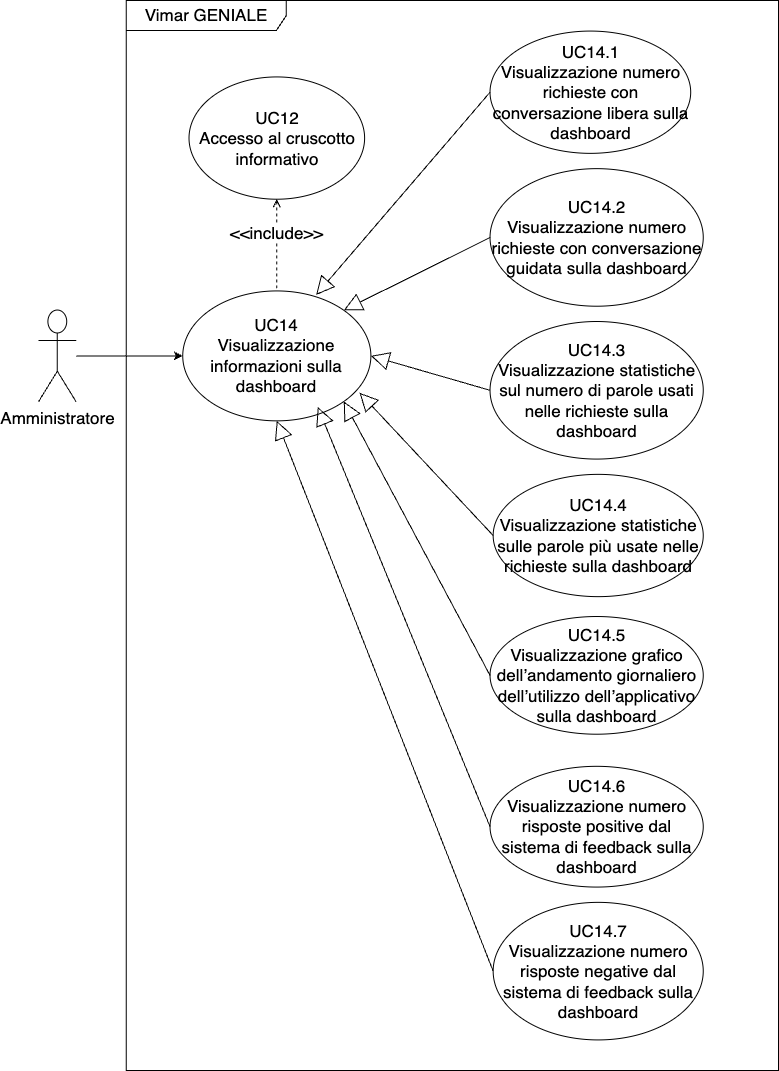
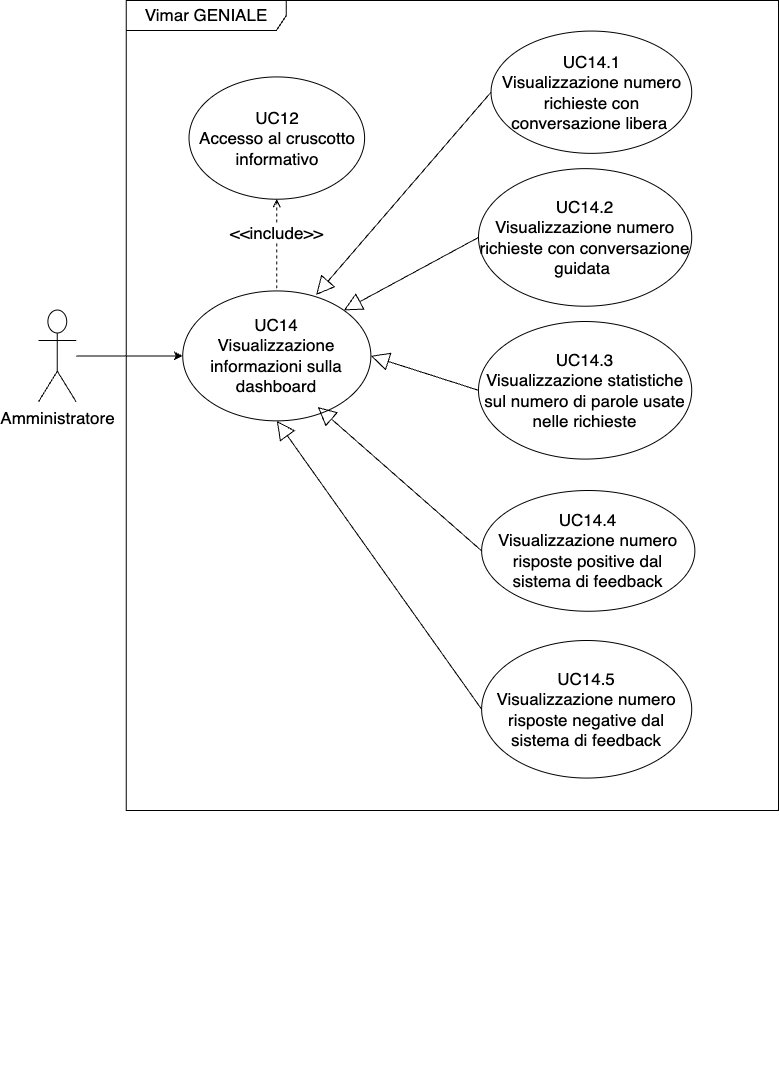
V0.0.11
Aggiunti UC16, 17, corretto UC14, UC15
Aggiunti requisiti, corretta numerazione requisiti

diff --git a/src/2 - RTB/Analisi_dei_Requisiti/contents/casi_duso/elenco.tex b/src/2 - RTB/Analisi_dei_Requisiti/contents/casi_duso/elenco.tex
@@ -434,7 +434,7 @@
     \item \textbf{Inclusioni}: UC 12 - Accesso al cruscotto informativo
 \end{itemize}
 
-\subuc{Visualizzazione numero richieste con conversazione libera sulla dashboard}{visualizzazione_richieste_libere}
+\subuc{Visualizzazione numero richieste con conversazione libera}{visualizzazione_richieste_libere}
 \begin{itemize}
     \item \textbf{Attori coinvolti}: Amministratore;
     \item \textbf{Descrizione}: Un amministratore desidera visualizzare dal cruscotto informativo il numero delle richieste effettuate con una conversazione libera;
@@ -456,7 +456,7 @@
     \item \textbf{Generalizzazioni}: UC 14 - Visualizzazione informazioni sulla dashboard
 \end{itemize}
 
-\subuc{Visualizzazione numero richieste con conversazione guidata sulla dashboard}{visualizzazione_richieste_guidate}
+\subuc{Visualizzazione numero richieste con conversazione guidata}{visualizzazione_richieste_guidate}
 \begin{itemize}
     \item \textbf{Attori coinvolti}: Amministratore;
     \item \textbf{Descrizione}: Un amministratore desidera visualizzare dal cruscotto informativo il numero delle richieste effettuate con una conversazione guidata;
@@ -478,7 +478,7 @@
     \item \textbf{Generalizzazioni}: UC 14 - Visualizzazione informazioni sulla dashboard
 \end{itemize}
 
-\subuc{Visualizzazione statistiche sul numero di parole usati nelle richieste sulla dashboard}{visualizzazione_statistiche_parole}
+\subuc{Visualizzazione statistiche sul numero di parole usate nelle richieste}{visualizzazione_statistiche_parole}
 \begin{itemize}
     \item \textbf{Attori coinvolti}: Amministratore;
     \item \textbf{Descrizione}: Un amministratore desidera visualizzare dal cruscotto informativo le statistiche sul numero di parole utilizzate;
@@ -500,51 +500,7 @@
     \item \textbf{Generalizzazioni}: UC 14 - Visualizzazione informazioni sulla dashboard
 \end{itemize}
 
-\subuc{Visualizzazione statistiche sulle parole più usate nelle richieste sulla dashboard}{visualizzazione_statistiche_parole_usate}
-\begin{itemize}
-    \item \textbf{Attori coinvolti}: Amministratore;
-    \item \textbf{Descrizione}: Un amministratore desidera visualizzare dal cruscotto informativo le statistiche sulle parole più usate nelle richieste;
-    \item \textbf{Precondizioni}: 
-        \begin{itemize}
-            \item L’amministratore ha accesso all’interfaccia web del sistema;
-            \item L’amministratore è dotato dell’accesso alla dashboard;
-        \end{itemize}
-    \item \textbf{Postcondizioni}: Il sistema raccoglie le informazioni relative alle statistiche sulle parole più usate nelle richieste e le mostra nella dashboard;
-    \item \textbf{Scenario principale}:
-    \begin{enumerate}
-    \item L’amministratore accede all’interfaccia web di Vimar GENIALE;
-    \item Inserisce le proprie credenziali;
-    \item Il sistema riceve la richiesta di accesso e verifica le credenziali;
-    \item L’amministratore ottiene l’accesso alla dashboard;
-    \item Il sistema mostra le informazioni richieste sul cruscotto informativo.
-    \end{enumerate}
-    \item \textbf{Inclusioni}: UC 12 - Accesso al cruscotto informativo
-    \item \textbf{Generalizzazioni}: UC 14 - Visualizzazione informazioni sulla dashboard
-\end{itemize}
-
-\subuc{Visualizzazione grafico dell’andamento giornaliero dell’utilizzo dell’applicativo sulla dashboard}{visualizzazione_grafico_andamento}
-\begin{itemize}
-    \item \textbf{Attori coinvolti}: Amministratore;
-    \item \textbf{Descrizione}: Un amministratore desidera visualizzare dal cruscotto informativo il grafico dell’andamento giornaliero dell’utilizzo dell’applicativo;
-    \item \textbf{Precondizioni}: 
-        \begin{itemize}
-            \item L’amministratore ha accesso all’interfaccia web del sistema;
-            \item L’amministratore è dotato dell’accesso alla dashboard;
-        \end{itemize}
-    \item \textbf{Postcondizioni}: Il sistema raccoglie le informazioni, crea il grafico dell’andamento giornaliero dell’utilizzo dell’applicativo e lo mostra nella dashboard;
-    \item \textbf{Scenario principale}:
-    \begin{enumerate}
-    \item L’amministratore accede all’interfaccia web di Vimar GENIALE;
-    \item Inserisce le proprie credenziali;
-    \item Il sistema riceve la richiesta di accesso e verifica le credenziali;
-    \item L’amministratore ottiene l’accesso alla dashboard;
-    \item Il sistema mostra le informazioni richieste sul cruscotto informativo.
-    \end{enumerate}
-    \item \textbf{Inclusioni}: UC 12 - Accesso al cruscotto informativo
-    \item \textbf{Generalizzazioni}: UC 14 - Visualizzazione informazioni sulla dashboard
-\end{itemize}
-
-\subuc{Visualizzazione numero risposte positive dal sistema di feedback sulla dashboard}{visualizzazione_risposte_positive}
+\subuc{Visualizzazione numero risposte positive dal sistema di feedback}{visualizzazione_risposte_positive}
 \begin{itemize}
     \item \textbf{Attori coinvolti}: Amministratore;
     \item \textbf{Descrizione}: Un amministratore desidera visualizzare dal cruscotto informativo il numero delle risposte positive dal sistema di feedback;
@@ -566,7 +522,7 @@
     \item \textbf{Generalizzazioni}: UC 14 - Visualizzazione informazioni sulla dashboard
 \end{itemize}
 
-\subuc{Visualizzazione numero risposte negative dal sistema di feedback sulla dashboard}{visualizzazione_risposte_negative}
+\subuc{Visualizzazione numero risposte negative dal sistema di feedback}{visualizzazione_risposte_negative}
 \begin{itemize}
     \item \textbf{Attori coinvolti}: Amministratore;
     \item \textbf{Descrizione}: Un amministratore desidera visualizzare dal cruscotto informativo il numero delle risposte negative dal sistema di feedback;
@@ -619,5 +575,61 @@
 \centering
 \includegraphics[width=0.8\textwidth]{contents/casi_duso/png/UC15.png}
 \caption{UC15 - Richiesta di argomento proibito}
+% \label{fig:UC1a}
+\end{figure}
+
+\uc{Domanda al sisitema}{domanda}
+\begin{itemize}
+    \item \textbf{Attori coinvolti}: Installatore;
+    \item \textbf{Descrizione}: L’installatore inserisce una domanda;
+    \item \textbf{Precondizioni}: 
+        \begin{itemize}
+            \item L’installatore ha accesso all’interfaccia web del sistema;
+            \item L’installatore ha accesso ad una conversazione memorizzabile nel sistema;
+            \item L'installatore ha inviato una domanda al sistema;
+            \item La domanda posta non riguarda argomenti proibiti.
+        \end{itemize}
+    \item \textbf{Postcondizioni}: Il sistema restituisce una risposta;
+    \item \textbf{Scenario principale}:
+    \begin{enumerate}
+    \item L’installatore accede all’interfaccia web di Vimar GENIALE;
+    \item Inserisce una domanda che ha a che vedere con prodotti VIMAR e non con argomenti proibiti o sconosciuti;
+    \item Il sistema elabora la richiesta e fornisce una risposta;
+    \item L’installatore visualizza le informazioni restituite;
+    \end{enumerate}
+    \item \textbf{Estensioni}: UC 17 - Richiesta di uno schema o immagine.
+\end{itemize}
+\begin{figure}[H]
+\centering
+\includegraphics[width=0.8\textwidth]{Analisi_dei_Requisiti/contents/casi_duso/png/UC16_activity.png}
+\caption{UC16 - Domanda al sisitema}
+% \label{fig:UC1a}
+\end{figure}
+
+\uc{Richiesta di uno schema o immagine}{domanda_immagine}
+\begin{itemize}
+    \item \textbf{Attori coinvolti}: Installatore;
+    \item \textbf{Descrizione}: L’installatore inserisce una domanda la cui risposta prevede uno schema elettrico o un'immagine;
+    \item \textbf{Precondizioni}: 
+        \begin{itemize}
+            \item L’installatore ha accesso all’interfaccia web del sistema;
+            \item L’installatore ha accesso ad una conversazione memorizzabile nel sistema;
+            \item L'installatore ha inviato una domanda al sistema;
+            \item La risposta alla domanda posta necessita, per essere completa, si uno schema elettrico o di un'immagine.
+        \end{itemize}
+    \item \textbf{Postcondizioni}: Il sistema restituisce una risposta con l'immagine o lo schema corretto;
+    \item \textbf{Scenario principale}:
+    \begin{enumerate}
+    \item L’installatore accede all’interfaccia web di Vimar GENIALE;
+    \item Inserisce una domanda che ha a che vedere con prodotti VIMAR;
+    \item Il sistema elabora la richiesta e fornisce una risposta inserendo uno schema o di un'immagine di cui la risposta ha bisogno per essere esaustiva;
+    \item L’installatore visualizza le informazioni restituite;
+    \item \textbf{Inclusioni}: UC 16 - Domanda al sistema.
+    \end{enumerate}
+\end{itemize}
+\begin{figure}[H]
+\centering
+\includegraphics[width=0.8\textwidth]{Analisi_dei_Requisiti/contents/casi_duso/png/UC17.png}
+\caption{UC17 - Richiesta di uno schema o immagine}
 % \label{fig:UC1a}
 \end{figure}

diff --git a/src/2 - RTB/Analisi_dei_Requisiti/contents/requisiti/requisiti_di_funzionalita.tex b/src/2 - RTB/Analisi_dei_Requisiti/contents/requisiti/requisiti_di_funzionalita.tex
@@ -3,17 +3,21 @@
         \hline
         \textbf{ID requisito} & \textbf{Descrizione} & \textbf{Importanza} & \textbf{Fonti}  \\
         \hline
-        RF1 & Il sistema deve permettere all'installatore di effettuare ricerche testuali e ricevere informazioni dettagliate sui prodotti Vimar. & Obbligatorio & Capitolato \\
+        RF.O.1 & Il sistema deve permettere all'installatore di effettuare ricerche testuali e ricevere informazioni dettagliate sui prodotti Vimar. & Obbligatorio & Capitolato \\
         \hline
-        RF2 & Il sistema deve prevedere un sistema di autenticazione tramite password per l'accesso alla dashboard per amministratori. & Obbligatorio & UC12 \\
+        RF.O.2 & Il sistema deve prevedere un sistema di autenticazione tramite password per l'accesso alla dashboard per amministratori. & Obbligatorio & UC12 \\
         \hline
-        RF3 & Il cruscotto informativo deve includere una sezione per la visualizzazione di statistiche di utilizzo. & Obbligatorio & UC14 \\
+        RF.O.3 & Il cruscotto informativo deve includere una sezione per la visualizzazione di statistiche di utilizzo. & Obbligatorio & UC14 \\
         \hline
-        RF4 & Il sistema deve permettere agli utenti di fornire un feedback positivo o negativo dopo ogni risposta ricevuta. & Obbligatorio & UC14 \\
+        RF.O.4 & Il sistema deve permettere agli utenti di fornire un feedback positivo o negativo dopo ogni risposta ricevuta. & Obbligatorio & UC14 \\
         \hline
-        RF5 & Il sistema deve essere in grado di identificare e bloccare le richieste che riguardano argomenti non pertinenti ai prodotti VIMAR. & Obbligatorio & UC15 \\
+        RF.O.5 & Il sistema deve essere in grado di identificare e bloccare le richieste che riguardano argomenti non pertinenti ai prodotti VIMAR. & Obbligatorio & UC15 \\
         \hline
-        RF6 & Il sistema potrebbe includere la possibilità di visualizzare link di riferimento alle fonti delle informazioni fornite. & Desiderabile & Capitolato \\
+        RF.D.6 & Il sistema potrebbe includere la possibilità di visualizzare link di riferimento alle fonti delle informazioni fornite. & Desiderabile & Capitolato \\
+        \hline
+        RF.P.7 & Il sistema deve fornire un'interfaccia con menu e sottomenù per costruire richieste specifiche in conversazioni guidate & Opzionale & Capitolato\\
+        \hline
+        RF.O.8 & Il sistema deve consentire solo conversazioni pertinendi ai prodotti Vimar e bloccare conversazioni su argomenti proibiti & Obbligatorio & Capitolato \\
         \hline
         \end{tabular}
 

diff --git a/src/2 - RTB/Analisi_dei_Requisiti/contents/requisiti.tex b/src/2 - RTB/Analisi_dei_Requisiti/contents/requisiti.tex
@@ -1,7 +1,7 @@
 \section{Requisiti}
 In questa sezione verranno elencati tutti i requisiti specificati nel capitolato, organizzandoli in categorie distinte per una maggiore chiarezza. Ogni requisito è identificato in modo univoco da un codice, strutturato secondo un formato predefinito, che ne facilita la consultazione e il riferimento all'interno della documentazione con il seguente formato: 
 \begin{center}
-\textbf{R-[numero]-[tipo]-[priorità]}
+\textbf{R[Tipo].[Importanza].[Codice]}
 \end{center}
 dove:
 \begin{itemize}
@@ -12,12 +12,12 @@ dove:
         \item \textbf{Q (qualità):} definisce le caratteristiche di qualità del prodotto software.
         \item \textbf{V (vincolo):} specifica i limiti e le restrizioni imposte dal capitolato, che il prodotto software deve rispettare.
 \end{itemize}
-    \item \textbf{Priorità:} la priorità viene assegnata al requisito con un numero da 1 a 3:
-    \begin{enumerate}
-        \item Requisito obbligatorio che deve essere soddisfatto per la realizzazione del prodotto software.  
-        \item Requisito desiderabile il cui soddisfacimento è apprezzato dal committente.
-        \item Requisito facoltativo, la cui realizzazione è totalmente a discrezione del team in base all'andamento del progetto.
-    \end{enumerate}
+    \item \textbf{Priorità:} la priorità viene assegnata al requisito con:
+    \begin{itemize}
+     \item \textbf{O}: requisito obbligatorio che deve essere soddisfatto per la realizzazione del prodotto software;
+        \item \textbf{D}: requisito desiderabile il cui soddisfacimento è apprezzato dal committente;
+        \item \textbf{P}: requisito facoltativo, la cui realizzazione è totalmente a discrezione del team in base all'andamento del progetto.
+    \end{itemize}
 \end{itemize}
 In alcuni casi sarà specificato nella colonna delle fonti se il requisito è stato esplicitamente indicato nel Capitolato oppure se è stato dedotto implicitamente da altri requisiti obbligatori. In quest’ultimo caso, si farà riferimento a un requisito interno.
 \subsection{Registro di Funzionalità}

diff --git a/src/2 - RTB/Analisi_dei_Requisiti/contents/requisiti/requisiti_di_vincolo.tex b/src/2 - RTB/Analisi_dei_Requisiti/contents/requisiti/requisiti_di_vincolo.tex
@@ -1,13 +1,12 @@
 \begin{table}[H]
-    \begin{tabular}{|C{2.8cm}|C{9.5cm}|C{2.3cm}|}
+     \begin{tabular}{|C{2.7cm}|L{7.2cm}|C{2.7cm}|C{2cm}|}
         \hline
-         \textbf{ID requisito} &  
-         \textbf{Descrizione} &  
-         \textbf{Fonti}  \\
-          \hline
-          R-XXX-X-X & Lorem ipsum dolor sit amet, consectetur adipiscing elit, sed do eiusmod tempor incididunt ut labore et dolore magna aliqua. & Capitolato \\
+    \textbf{ID requisito} & \textbf{Descrizione} & \textbf{Importanza} & \textbf{Fonti}  \\
+    \hline
+           RV.O.1 & Il sistema deve integrare un modello AI (LLM) open source. & Obbligatorio & Capitolato \\
           \hline 
-          R-XXX-X-X & Lorem ipsum dolor sit amet, consectetur adipiscing elit, sed do eiusmod tempor incididunt ut labore et dolore magna aliqua. & Interno \\
+          RV.O.2 & L'infrastruttura deve utilizzare Docker e rispettare il principio di Infrastructure as Code & Obbligatorio & Capitolato \\
+          RV.D.3 & L'applicativo può essere ospitato su AWS & Desiderabile & Capitolato \\
           \hline
     \end{tabular}
 

diff --git a/src/2 - RTB/Analisi_dei_Requisiti/contents/requisiti/requisiti_di_qualita.tex b/src/2 - RTB/Analisi_dei_Requisiti/contents/requisiti/requisiti_di_qualita.tex
@@ -3,12 +3,13 @@
         \hline
         \textbf{ID requisito} & \textbf{Descrizione} & \textbf{Importanza} & \textbf{Fonti}  \\
         \hline
-        RQ1 & Il sistema deve integrare un modello AI (LLM) open source. & Obbligatorio & Capitolato \\
+       
         \hline
-        RQ2 & L'interfaccia utente del sistema potrebbe essere responsive, adattandosi a diversi dispositivi. & Desiderabile & Capitolato \\
+        RQ.O.1 & L'interfaccia utente del sistema potrebbe essere responsive, adattandosi a diversi dispositivi. & Desiderabile & Capitolato \\
         \hline
-        RQ3 & Il sistema deve essere progettato per essere facilmente eseguibile su altri dispositivi tramite tecnologia container. & Obbligatorio & Capitolato \\
+        RQ.O.2 & Il sistema deve essere progettato per essere facilmente eseguibile su altri dispositivi tramite tecnologia container. & Obbligatorio & Capitolato \\
         \hline
+        
         \end{tabular}
 
 \end{table}

diff --git a/src/2 - RTB/Analisi_dei_Requisiti/contents/versioning.tex b/src/2 - RTB/Analisi_dei_Requisiti/contents/versioning.tex
@@ -6,9 +6,11 @@
         \hline
         & & & & \\
         \hline
-        0.0.10 & 2024-12-1o & Derek Gusatto & Analista & Inserimento diagrammi UC 1, 4, 6, 8, 10, 11, 12, 14, 15 \\
+        0.0.11 & 2024-12-11 & Derek Gusatto & Analista & UC16, UC17, Correzione diagramma UC15, Requisiti  \\
         \hline
-        0.0.9 & 2024-12-10 & Tommaso Zocche & Analista & Scrittura requisiti funzionali da RF1 a RF6 e requisiti di qualità da RQ1 a RQ3 \\
+        0.0.10 & 2024-12-10 & Derek Gusatto & Analista & Inserimento diagrammi UC 1, 4, 6, 8, 10, 11, 12, 14, 15 \\
+        \hline
+        0.0.9 & 2024-12-10 & Tommaso Zocche & Analista & Scrittura requisiti funzionali da 1 a 6 e requisiti di qualità da 1 a 3 \\
         \hline
         0.0.8 & 2024-12-09 & Tommaso Zocche & Analista & Inserimento diagrammi UC 1, 3, 5, 7, 9, 11, 11.2, 12.1, 13, 15 \\
         \hline

diff --git a/src/2 - RTB/Analisi_dei_Requisiti/contents/casi_duso/casi_duso.tex b/src/2 - RTB/Analisi_dei_Requisiti/contents/casi_duso/casi_duso.tex
@@ -8,6 +8,12 @@ Gli attori presi in considerazione nel prodotto che realizzeremo includono:
     \item \textbf{Installatore}: Principale utilizzatore del sistema, che lo interroga per reperire informazioni tecniche e configurare i dispositivi; 
     \item \textbf{Amministratore}: Accede alla dashboard protetta per monitorare l’uso del sistema, visualizzare statistiche e gestire il feedback degli installatori.
 \end{itemize}
+\begin{figure}[H]
+\centering
+\includegraphics[height=5cm]{contents/casi_duso/png/attori.png}
+\caption{Attori}
+% \label{fig:UC1a}
+\end{figure}
 
 \subsection{Elenco dei casi d'uso}
 \input{contents/casi_duso/elenco}
